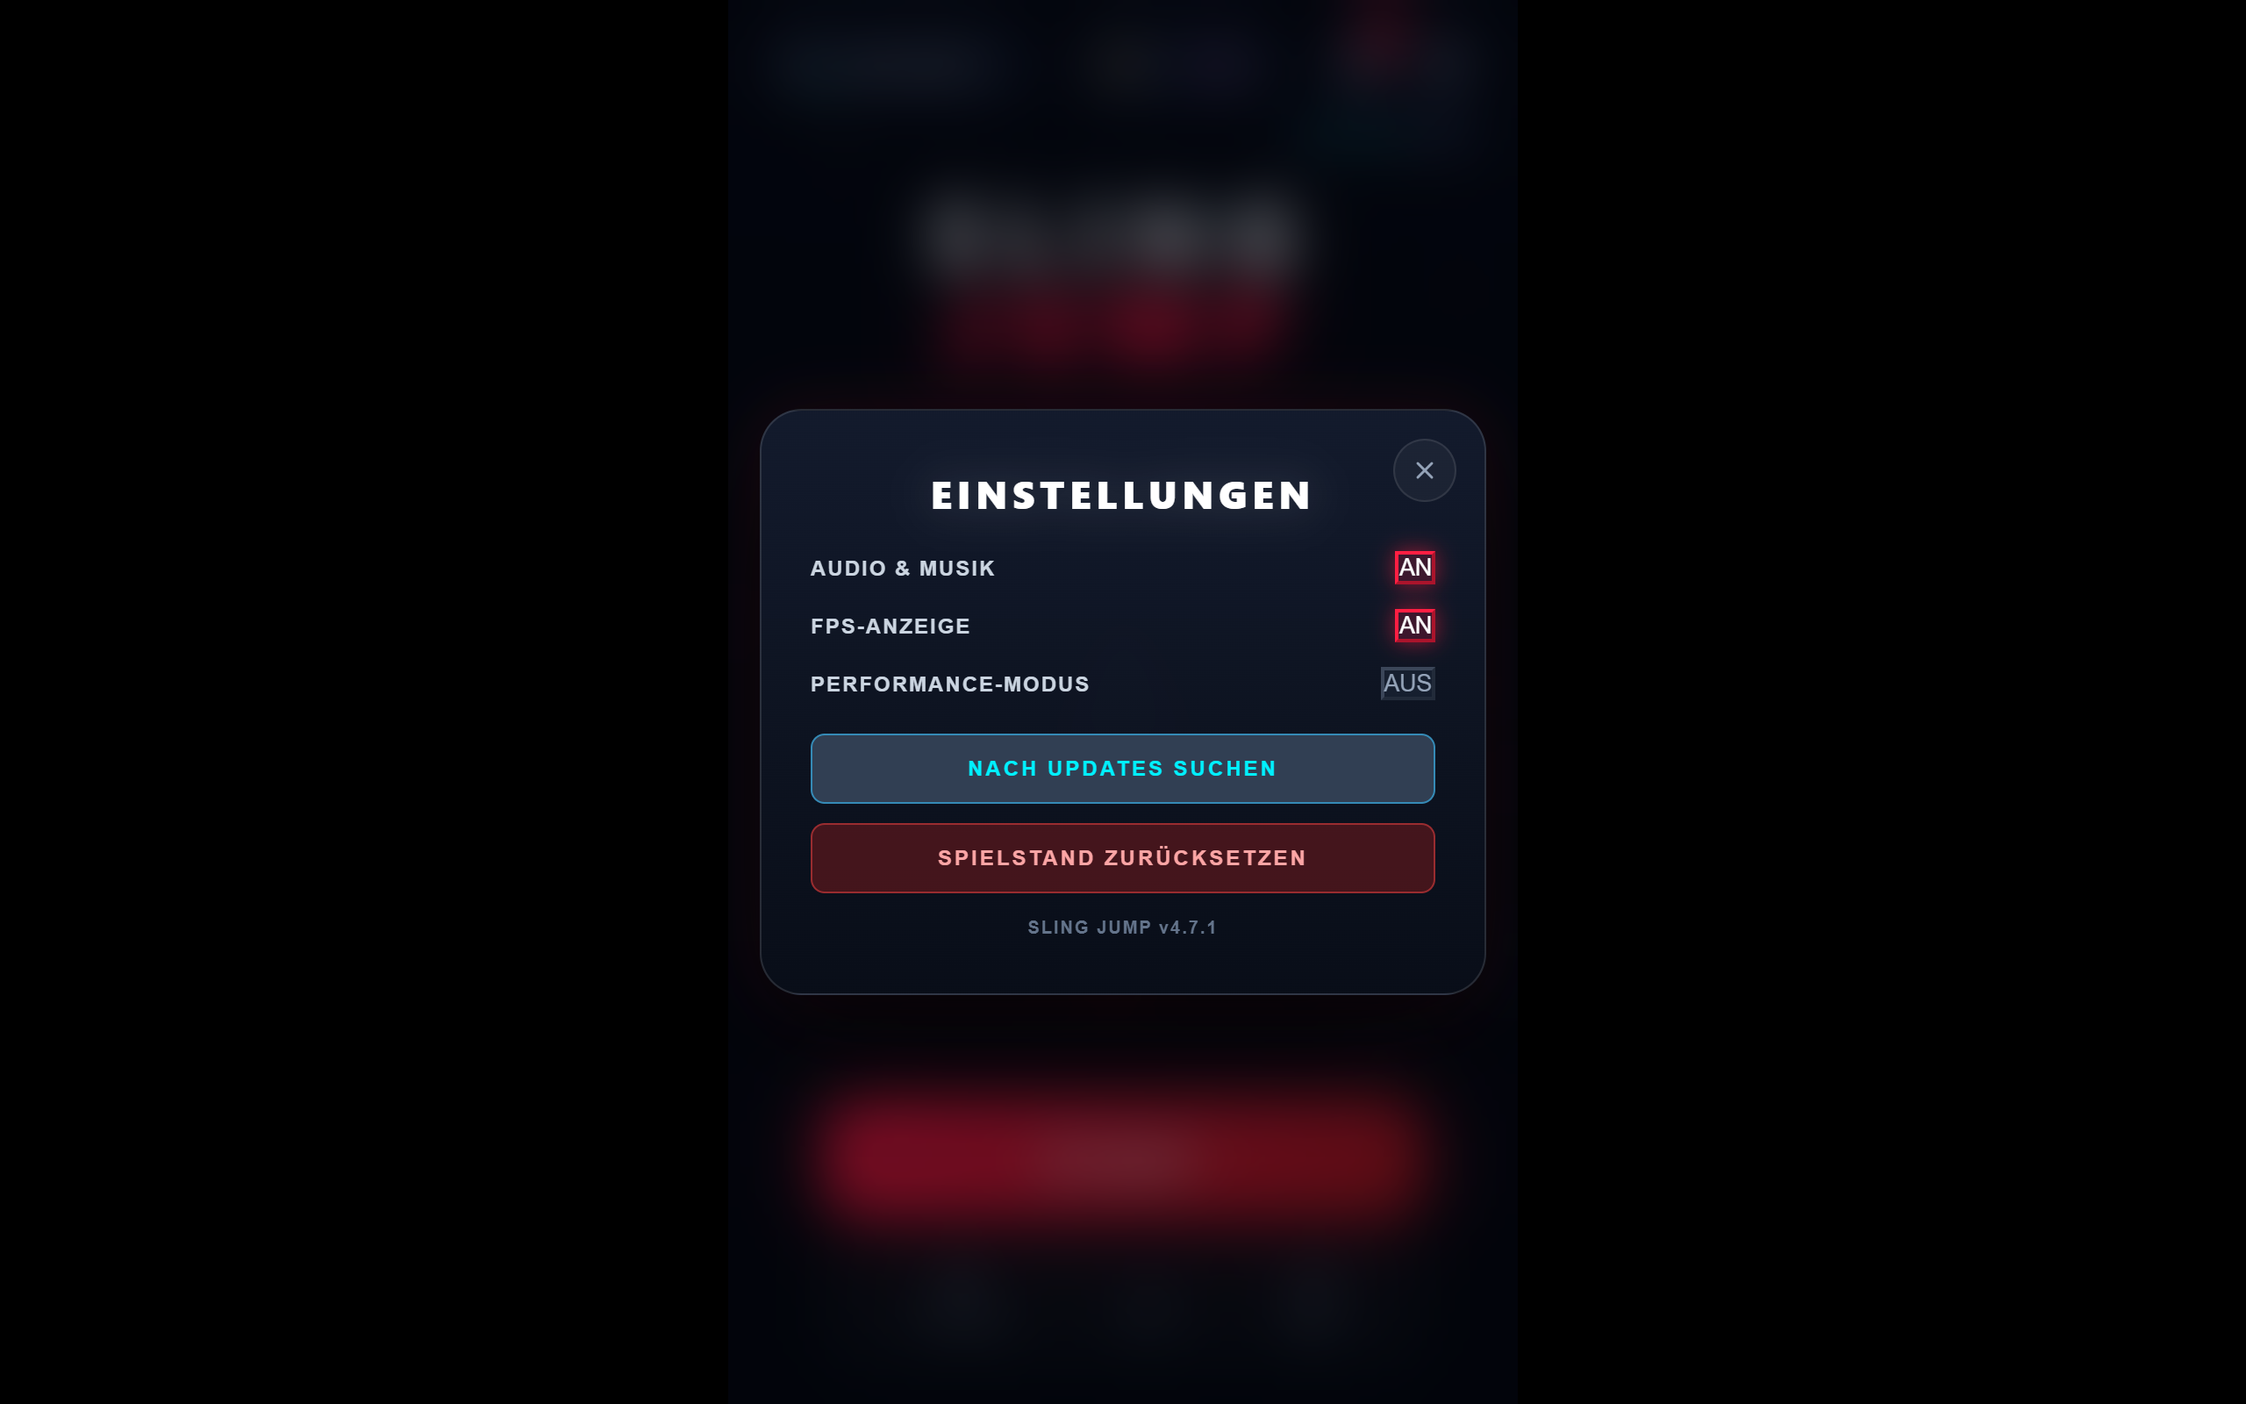
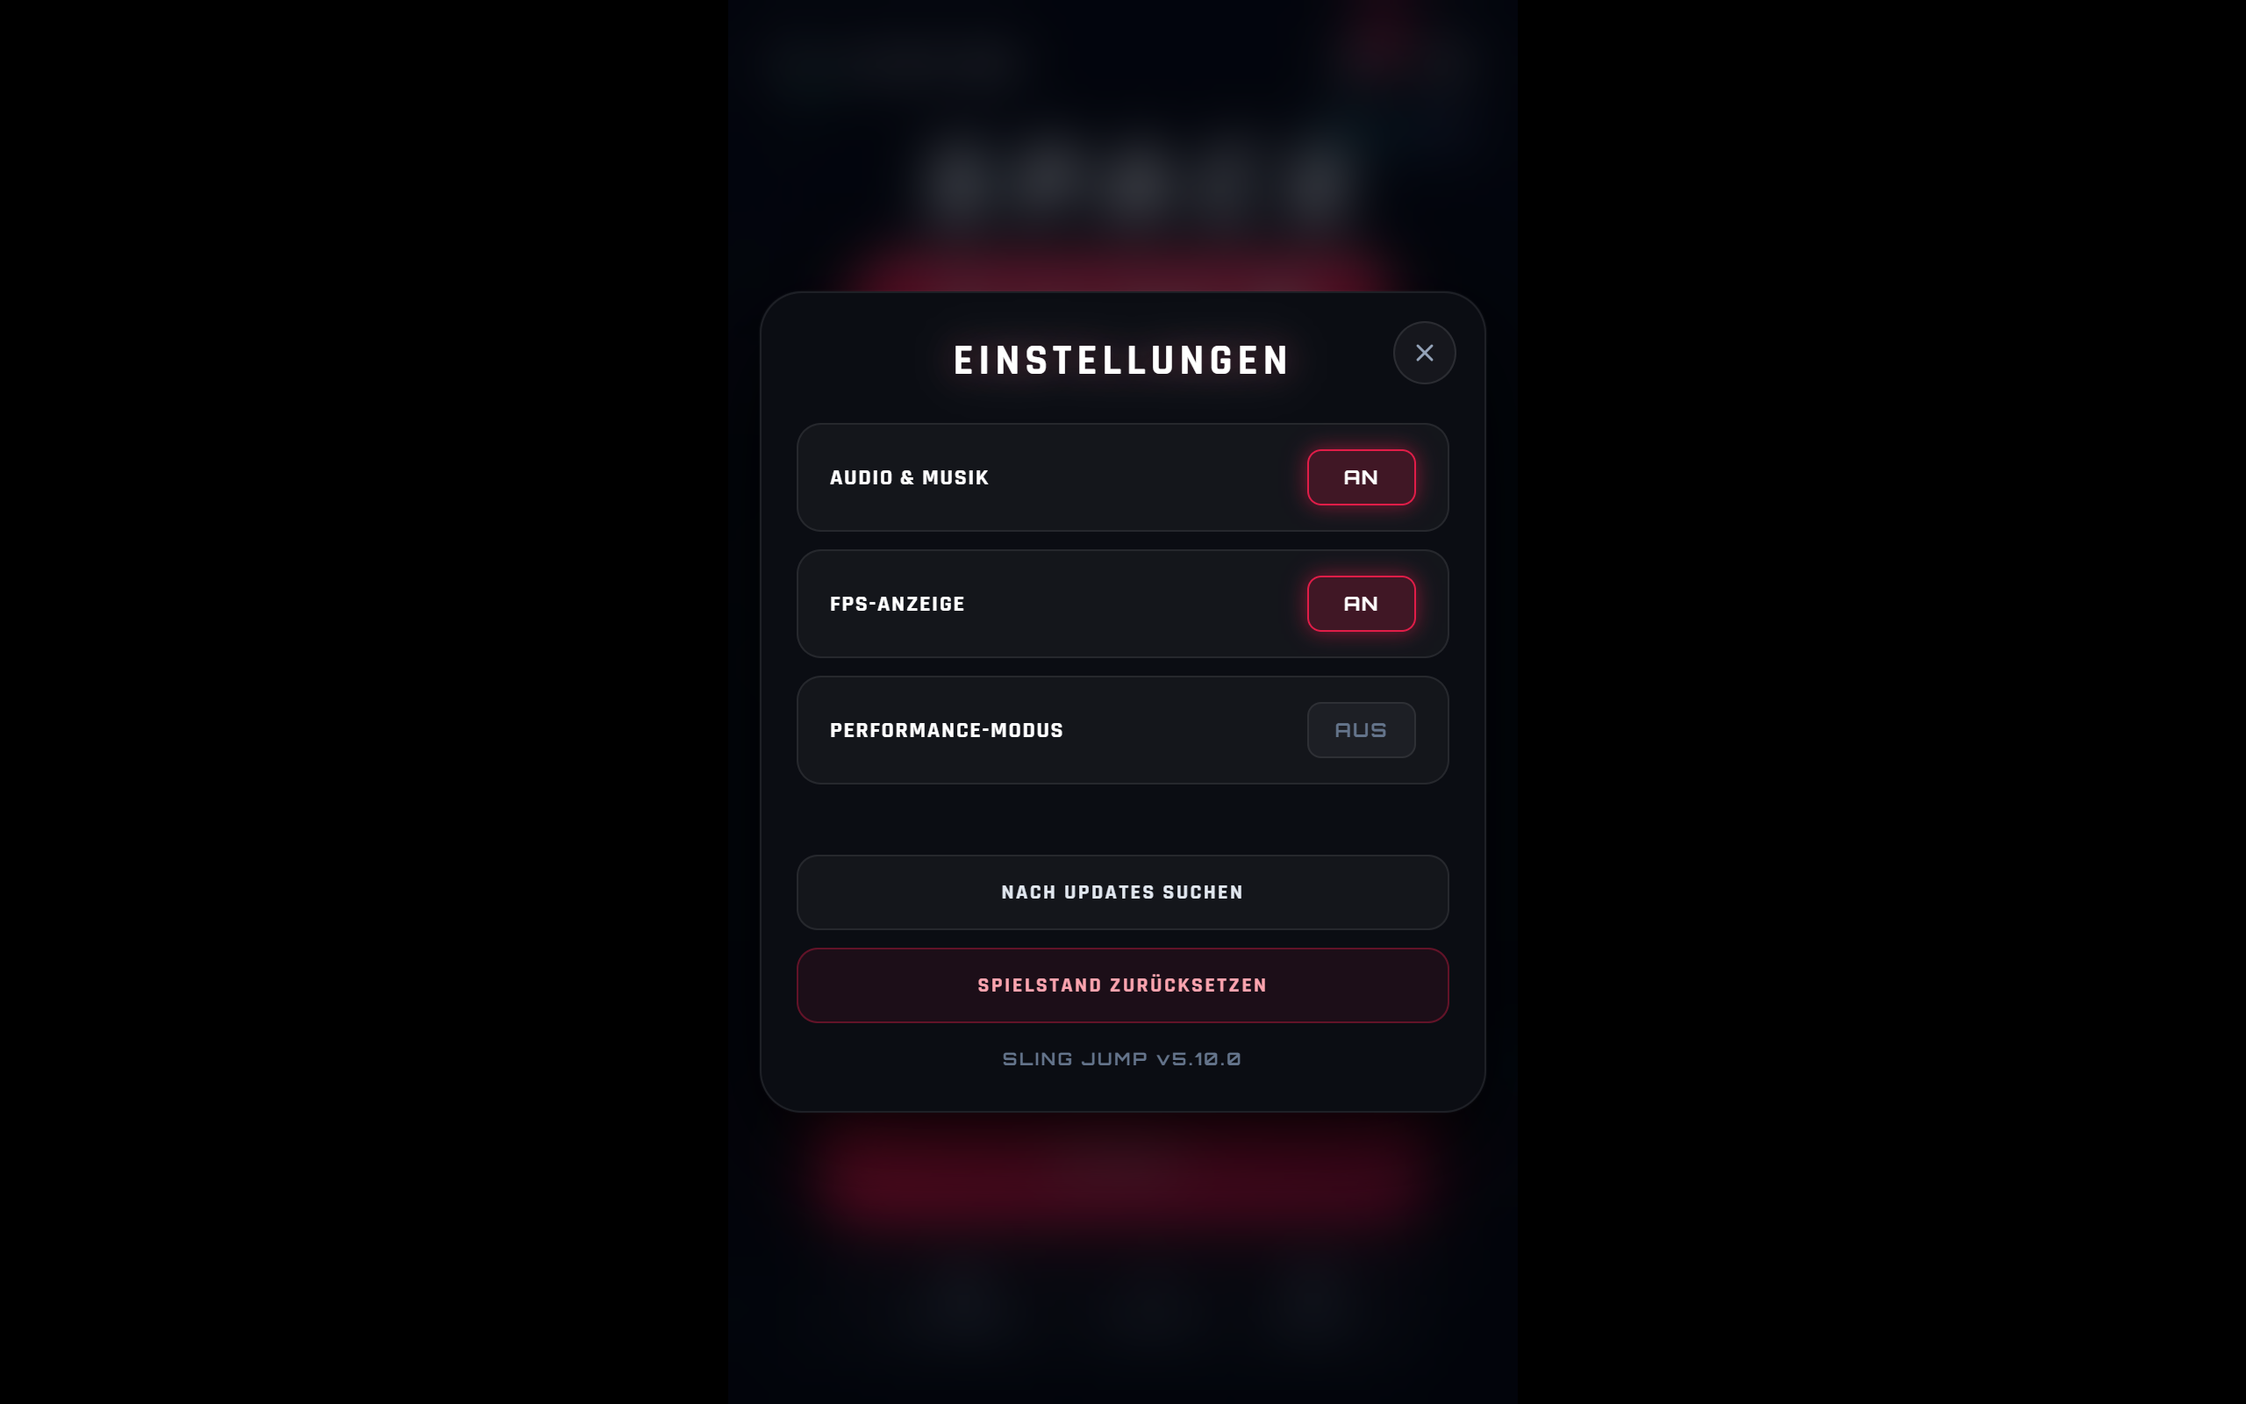
Redesign Settings modal to match Floating Dock and Mission Tab aesthetics (v5.16.7)

Changed region(s): [[0.3438, 0.0938, 0.6562, 0.7188], [0.3438, 0.75, 0.6562, 0.875]]

diff --git a/css/style.css b/css/style.css
@@ -3783,6 +3783,13 @@ canvas#gameCanvas {
     max-height: 90vh;
     padding: 18px 14px;
   }
+  .settings-modal-card {
+    padding: 20px 14px;
+    width: 95%;
+  }
+  .setting-row {
+    padding: 12px 14px;
+  }
   .section-subtitle {
     font-size: 13.5px;
     letter-spacing: 1.5px;
@@ -3803,43 +3810,159 @@ canvas#gameCanvas {
 }
 
 /* =========================================================================
-   6. SETTINGS MODAL
+   6. SETTINGS MODAL (REDESIGNED: FLOATING-DOCK & MISSIONS PARITY)
    ========================================================================= */
+.settings-modal-card {
+  max-width: 460px;
+  width: 92%;
+  padding: 24px 20px;
+  background: #0b0d13 !important;
+  border: 1px solid rgba(255, 255, 255, 0.08) !important;
+  border-radius: 24px;
+  box-shadow: 0 24px 64px rgba(0, 0, 0, 0.9), 0 0 1px rgba(255, 255, 255, 0.1);
+  text-align: center;
+  box-sizing: border-box;
+}
+
+.settings-header-lockup {
+  text-align: center;
+  margin-bottom: 20px;
+}
+
+.settings-title {
+  font-family: var(--font-display);
+  font-size: 24px;
+  font-weight: 900;
+  letter-spacing: 3px;
+  color: #ffffff;
+  margin: 0;
+  text-shadow: 0 0 16px rgba(225, 29, 72, 0.25);
+}
+
 .settings-list {
   display: flex;
   flex-direction: column;
-  gap: 14px;
+  gap: 10px;
   margin-bottom: 20px;
   text-align: left;
 }
+
 .setting-row {
   display: flex;
   justify-content: space-between;
   align-items: center;
+  background: rgba(255, 255, 255, 0.035);
+  border: 1px solid rgba(255, 255, 255, 0.08);
+  border-radius: 14px;
+  padding: 14px 18px;
+  backdrop-filter: blur(16px);
+  -webkit-backdrop-filter: blur(16px);
+  transition: transform 0.18s ease, background 0.18s ease, border-color 0.18s ease;
 }
+
+.setting-row:hover {
+  background: rgba(255, 255, 255, 0.055);
+  border-color: rgba(255, 255, 255, 0.14);
+  transform: translateY(-1px);
+}
+
 .setting-label {
-  font-size: 12px;
-  font-weight: 700;
-  color: #cbd5e1;
+  font-family: var(--font-ui);
+  font-size: 13px;
+  font-weight: 800;
+  letter-spacing: 0.8px;
+  color: #ffffff;
   text-transform: uppercase;
-  letter-spacing: 1px;
 }
-.slider-container {
-  display: flex;
-  align-items: center;
-  gap: 10px;
-  width: 160px;
-}
-.slider-container input[type="range"] {
-  flex: 1;
-  accent-color: var(--action-start);
-}
-.slider-val {
+
+.btn-toggle {
+  min-width: 62px;
+  height: 32px;
+  padding: 0 14px;
+  border-radius: 8px;
+  font-family: 'Orbitron', monospace;
   font-size: 11px;
+  font-weight: 800;
+  letter-spacing: 1px;
+  cursor: pointer;
+  display: inline-flex;
+  align-items: center;
+  justify-content: center;
+  border: 1px solid rgba(255, 255, 255, 0.1);
+  background: rgba(255, 255, 255, 0.04);
+  color: #64748b;
+  transition: all 0.18s ease;
+}
+
+.btn-toggle:hover {
+  filter: brightness(1.15);
+}
+
+.settings-button-stack {
+  display: flex;
+  flex-direction: column;
+  gap: 10px;
+  width: 100%;
+}
+
+.btn-settings-action {
+  width: 100%;
+  display: inline-flex;
+  align-items: center;
+  justify-content: center;
+  padding: 13px 20px;
+  border-radius: 12px;
+  font-family: var(--font-ui);
+  font-size: 12px;
+  font-weight: 800;
+  letter-spacing: 1.2px;
+  text-transform: uppercase;
+  cursor: pointer;
+  backdrop-filter: blur(16px);
+  -webkit-backdrop-filter: blur(16px);
+  transition: all 0.18s ease;
+}
+
+.btn-settings-update,
+#btn-check-update.btn-settings-action {
+  background: rgba(255, 255, 255, 0.035);
+  border: 1px solid rgba(255, 255, 255, 0.08);
+  color: #e2e8f0;
+}
+
+.btn-settings-update:hover,
+#btn-check-update.btn-settings-action:hover {
+  background: rgba(255, 255, 255, 0.065);
+  border-color: rgba(56, 189, 248, 0.5);
+  color: #38bdf8;
+  box-shadow: 0 0 14px rgba(56, 189, 248, 0.2);
+  transform: translateY(-1px);
+}
+
+.btn-settings-danger,
+#btn-reset-data.btn-settings-action {
+  background: rgba(225, 29, 72, 0.08);
+  border: 1px solid rgba(225, 29, 72, 0.35);
+  color: #fda4af;
+}
+
+.btn-settings-danger:hover,
+#btn-reset-data.btn-settings-action:hover {
+  background: rgba(225, 29, 72, 0.22);
+  border-color: rgba(225, 29, 72, 0.8);
+  color: #ffffff;
+  box-shadow: 0 0 16px rgba(225, 29, 72, 0.35);
+  transform: translateY(-1px);
+}
+
+.settings-version-tag {
+  font-family: 'Orbitron', monospace;
+  font-size: 10px;
   font-weight: 700;
-  color: var(--action-start);
-  width: 32px;
-  text-align: right;
+  letter-spacing: 1.2px;
+  color: #64748b;
+  margin-top: 14px;
+  text-align: center;
 }
 
 /* =========================================================================

diff --git a/index.html b/index.html
@@ -632,34 +632,36 @@
       </div>
     </div>
 
-    <!-- 7. SETTINGS MODAL -->
+    <!-- 7. SETTINGS MODAL (REDESIGNED) -->
     <div class="modal-overlay" id="settings-modal">
-      <div class="modal-card" style="position: relative;">
+      <div class="modal-card hub-card settings-modal-card" style="position: relative;">
         <button class="modal-close-x" id="btn-settings-close" aria-label="Schließen">
           <svg viewBox="0 0 24 24"><line x1="18" y1="6" x2="6" y2="18"></line><line x1="6" y1="6" x2="18" y2="18"></line></svg>
         </button>
-        <div class="modal-title">EINSTELLUNGEN</div>
+        <div class="settings-header-lockup">
+          <div class="modal-title settings-title">EINSTELLUNGEN</div>
+        </div>
 
         <div class="settings-list">
           <div class="setting-row">
             <span class="setting-label">Audio & Musik</span>
-            <button class="btn-toggle" id="btn-audio-toggle">AN</button>
+            <button class="btn-toggle" id="btn-audio-toggle" type="button">AN</button>
           </div>
           <div class="setting-row">
             <span class="setting-label">FPS-Anzeige</span>
-            <button class="btn-toggle" id="btn-fps-toggle">AUS</button>
+            <button class="btn-toggle" id="btn-fps-toggle" type="button">AUS</button>
           </div>
           <div class="setting-row">
             <span class="setting-label">Performance-Modus</span>
-            <button class="btn-toggle" id="btn-perf-toggle">AUS</button>
+            <button class="btn-toggle" id="btn-perf-toggle" type="button">AUS</button>
           </div>
         </div>
 
-        <div class="modal-button-stack">
-          <button class="btn-secondary" id="btn-check-update">NACH UPDATES SUCHEN</button>
-          <button class="btn-danger" id="btn-reset-data">SPIELSTAND ZURÜCKSETZEN</button>
+        <div class="modal-button-stack settings-button-stack">
+          <button class="btn-settings-action btn-settings-update" id="btn-check-update" type="button">NACH UPDATES SUCHEN</button>
+          <button class="btn-settings-action btn-settings-danger" id="btn-reset-data" type="button">SPIELSTAND ZURÜCKSETZEN</button>
         </div>
-        <div class="settings-version-tag" style="font-size:10px;color:#64748b;font-weight:700;letter-spacing:1px;margin-top:14px;">SLING JUMP v4.7.1</div>
+        <div class="settings-version-tag">SLING JUMP v5.16.6</div>
       </div>
     </div>
 

diff --git a/js/engine/UIManager.js b/js/engine/UIManager.js
@@ -1899,9 +1899,9 @@ class UIManager {
       this.dom.btnAudioToggle.style.borderColor = 'var(--accent-crimson)';
       this.dom.btnAudioToggle.style.boxShadow = '0 0 12px var(--accent-crimson-glow)';
     } else {
-      this.dom.btnAudioToggle.style.color = '#94a3b8';
-      this.dom.btnAudioToggle.style.background = 'rgba(30, 41, 59, 0.5)';
-      this.dom.btnAudioToggle.style.borderColor = 'rgba(148, 163, 184, 0.2)';
+      this.dom.btnAudioToggle.style.color = '#64748b';
+      this.dom.btnAudioToggle.style.background = 'rgba(255, 255, 255, 0.04)';
+      this.dom.btnAudioToggle.style.borderColor = 'rgba(255, 255, 255, 0.08)';
       this.dom.btnAudioToggle.style.boxShadow = 'none';
     }
   }
@@ -1930,9 +1930,9 @@ class UIManager {
       this.dom.btnFpsToggle.style.borderColor = 'var(--accent-crimson)';
       this.dom.btnFpsToggle.style.boxShadow = '0 0 12px var(--accent-crimson-glow)';
     } else {
-      this.dom.btnFpsToggle.style.color = '#94a3b8';
-      this.dom.btnFpsToggle.style.background = 'rgba(30, 41, 59, 0.5)';
-      this.dom.btnFpsToggle.style.borderColor = 'rgba(148, 163, 184, 0.2)';
+      this.dom.btnFpsToggle.style.color = '#64748b';
+      this.dom.btnFpsToggle.style.background = 'rgba(255, 255, 255, 0.04)';
+      this.dom.btnFpsToggle.style.borderColor = 'rgba(255, 255, 255, 0.08)';
       this.dom.btnFpsToggle.style.boxShadow = 'none';
     }
   }
@@ -1955,9 +1955,9 @@ class UIManager {
       this.dom.btnPerfToggle.style.borderColor = 'var(--accent-crimson)';
       this.dom.btnPerfToggle.style.boxShadow = '0 0 12px var(--accent-crimson-glow)';
     } else {
-      this.dom.btnPerfToggle.style.color = '#94a3b8';
-      this.dom.btnPerfToggle.style.background = 'rgba(30, 41, 59, 0.5)';
-      this.dom.btnPerfToggle.style.borderColor = 'rgba(148, 163, 184, 0.2)';
+      this.dom.btnPerfToggle.style.color = '#64748b';
+      this.dom.btnPerfToggle.style.background = 'rgba(255, 255, 255, 0.04)';
+      this.dom.btnPerfToggle.style.borderColor = 'rgba(255, 255, 255, 0.08)';
       this.dom.btnPerfToggle.style.boxShadow = 'none';
     }
   }

diff --git a/scripts/playwright_runner.js b/scripts/playwright_runner.js
@@ -284,10 +284,10 @@ async function runPlaywrightSuite() {
     console.log('[Playwright] Testing Settings and Update Checker...');
     await page.click('#btn-menu-settings');
     await sleep(400);
-    await page.click('#btn-check-update');
-    await sleep(300);
     console.log('[Playwright] Capturing 07_settings.png');
     await captureScreenshot(page, '07_settings.png', 'Settings Modal');
+    await page.click('#btn-check-update');
+    await sleep(300);
     await page.click('#btn-settings-close');
     await sleep(300);
   }

diff --git a/GAME_STATUS.md b/GAME_STATUS.md
@@ -1,6 +1,6 @@
 # Sling Jump - Offizieller Spielstand & Historische Projekt-Dokumentation
 
-> **Status:** Release Candidate (v5.16.6 - Updated Daily & Weekly Mission Objectives)  
+> **Status:** Release Candidate (v5.16.7 - Settings Modal Floating-Dock & Mission Parity Redesign)  
 > **Permanenter Live-Link (24/7):** [`https://bauerjohannes2-max.github.io/sling-jump/`](https://bauerjohannes2-max.github.io/sling-jump/)  
 > **Repository:** [`https://github.com/bauerjohannes2-max/sling-jump`](https://github.com/bauerjohannes2-max/sling-jump)  
 > **Hosting:** GitHub Pages Global Edge CDN (SSL/HTTPS, PWA Offline Support)  
@@ -34,6 +34,16 @@
 | **Zone 7: Meister-Kosmos** | 14.000 m+ | 16% | 2% | 30% | 44% | 8% | ~10% | 250 – 320 px | 74% dynamische Knoten, maximale Reach |
 
 ## 3. Chronologische Release-Historie
+
+### v5.16.7 (06.09.2026) - Settings Modal Floating-Dock & Mission Parity Redesign
+- **Settings Redesign & Floating-Dock Hintergrund-Angleichung (`style.css`, `index.html`, `UIManager.js`):**
+  - Äußerer Modalkasten (`.settings-modal-card`) an `.missions-modal-card` angeglichen (`background: #0b0d13 !important; border: 1px solid rgba(255, 255, 255, 0.08); border-radius: 24px; box-shadow: 0 24px 64px rgba(0, 0, 0, 0.9);`).
+  - Alle Einstellungszeilen (`.setting-row`) 1:1 an `.floating-dock` aus dem Hauptmenü angepasst (`background: rgba(255, 255, 255, 0.035); border: 1px solid rgba(255, 255, 255, 0.08); border-radius: 14px; backdrop-filter: blur(16px); padding: 14px 18px;`).
+  - Hover-Effekt mit `rgba(255, 255, 255, 0.055)` und dezentem Lift (`translateY(-1px)`).
+  - Toggles (`.btn-toggle`) mit Crimson-Glow (`AN`) und dezentem Glasmorphismus (`AUS`) harmonisiert.
+  - Buttons (`NACH UPDATES SUCHEN`, `SPIELSTAND ZURÜCKSETZEN`) auf einheitliches modernes Glas-Pill-Design migriert.
+- **Automatisierte Verifikation:**
+  - Playwright Visual Runner (`07_settings.png`) mit 0 Konsolenfehlern validiert.
 
 ### v5.16.6 (06.09.2026) - Updated Daily & Weekly Mission Objectives
 - **Neue Missionsziele (kurz, prägnant, commercial minimalism):**

diff --git a/GAME_SYSTEMS.md b/GAME_SYSTEMS.md
@@ -143,6 +143,11 @@ Procedural generation (`WorldManager.js`) scales density, node types, and lethal
 - **Tactical Impact Reticle:** Vector marker `#debrief-crash-pos` bound precisely to `endPoint = points[points.length - 1]`. Features high-contrast shockwave, 4 tactical corner pips, carmine outer cross (`#e11d48`), and glowing white inner cross (`#ffffff`). Origin centered at `0 0` with zero subpixel drift.
 - **Debrief Body Vertical Elevation (`.debrief-body`):** Elevated by `translateY(-56px)` on desktop and tablet displays (with media queries `-20px` at $\le 740\text{px}$ height and `-8px` at $\le 620\text{px}$). Encompasses hero altitude score, chase progress bar, telemetry grid, and loot badges, establishing optical balance with the left trajectory telemetry rail (top tick $y \approx 138\text{px}$).
 
+### 7.5 Settings Modal Architecture
+- **Outer Shell Parity:** `.settings-modal-card` matches `.missions-modal-card` (`background: #0b0d13 !important; border: 1px solid rgba(255, 255, 255, 0.08); border-radius: 24px; box-shadow: 0 24px 64px rgba(0, 0, 0, 0.9);`).
+- **Floating-Dock Glassmorphism Parity:** Each setting row (`.setting-row`) mirrors `.floating-dock` (`background: rgba(255, 255, 255, 0.035); border: 1px solid rgba(255, 255, 255, 0.08); border-radius: 14px; backdrop-filter: blur(16px); padding: 14px 18px;`).
+- **Toggles & Actions:** `.btn-toggle` switches between active crimson glow (`rgba(225, 29, 72, 0.22)`) and translucent idle glass (`rgba(255, 255, 255, 0.04)`). Action buttons (`.btn-settings-update`, `.btn-settings-danger`) adopt unified glassmorphic pill aesthetics with responsive mobile scaling.
+
 ---
 
 ## 8. Audio System Architecture

diff --git a/screenshots/LATEST_RUN.md b/screenshots/LATEST_RUN.md
@@ -1,6 +1,6 @@
 # Playwright Visual Verification Report
-> **Laufzeit:** 6.9.2026, 19:59:36  
-> **Modus:** Selektiv (`05e_hub_quests_tab_daily`)  
+> **Laufzeit:** 6.9.2026, 20:09:21  
+> **Modus:** Selektiv (`07_settings`)  
 > **Status:** BESTANDEN (0 Konsolenfehler)  
 > **Frisch erfasste Screenshots in diesem Lauf:** 1  
 > **Garantierte Frische:** Alle unten aufgeführten Dateien wurden in diesem Testlauf frisch erzeugt.
@@ -8,7 +8,7 @@
 ### Frisch erfasste Screenshots
 | Datei | Zweck | Uhrzeit | Dateigröße | SHA-256 Prüfsumme |
 | :--- | :--- | :--- | :--- | :--- |
-| `05e_hub_quests_tab_daily.png` | Quests Daily Tab Filter Scrolled | 19:59:36 | 339 KB | `d5e202d979f4b737` |
+| `07_settings.png` | Settings Modal | 20:09:20 | 205 KB | `ce454a438a07e1ef` |
 
 
 ### Gesamter Screenshot-Bestand (22 Dateien)
@@ -18,7 +18,6 @@
 | `09_pause_modal.png` | 23:45:11 | 190 KB |
 | `08b_gameplay_fps_hud.png` | 10:56:15 | 321 KB |
 | `06b_pilot_profile.png` | 13:13:26 | 256 KB |
-| `07_settings.png` | 13:13:36 | 242 KB |
 | `02_hangar_skins.png` | 17:02:30 | 245 KB |
 | `08_gameplay_hud.png` | 18:53:08 | 213 KB |
 | `01_main_menu.png` | 19:10:29 | 222 KB |
@@ -36,3 +35,4 @@
 | `05c_hub_quests_scrolled.png` | 19:58:30 | 195 KB |
 | `05d_hub_quests_tab_weekly.png` | 19:58:31 | 195 KB |
 | `05e_hub_quests_tab_daily.png` | 19:59:36 | 339 KB |
+| `07_settings.png` | 20:09:20 | 205 KB |
